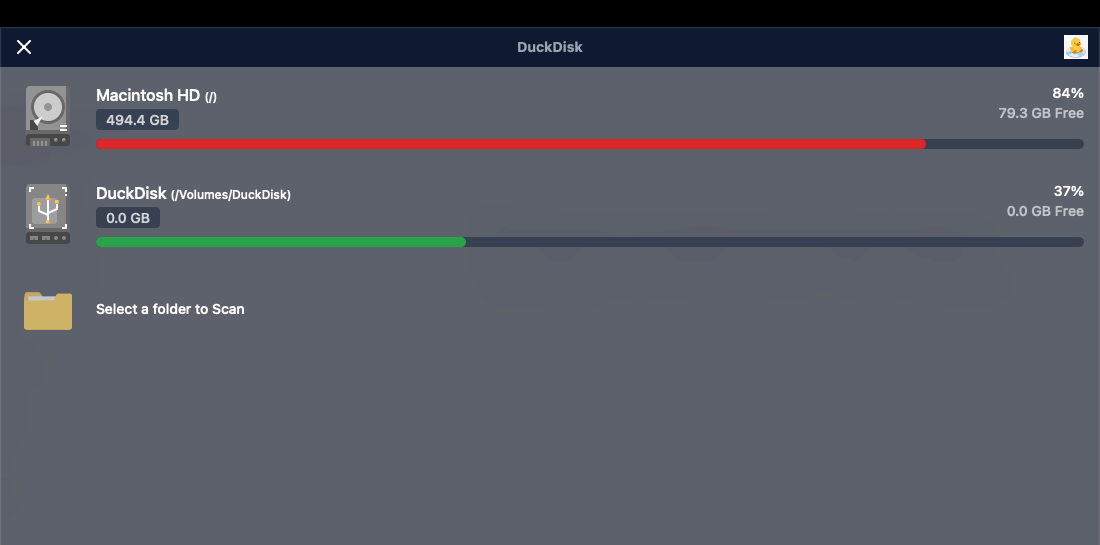
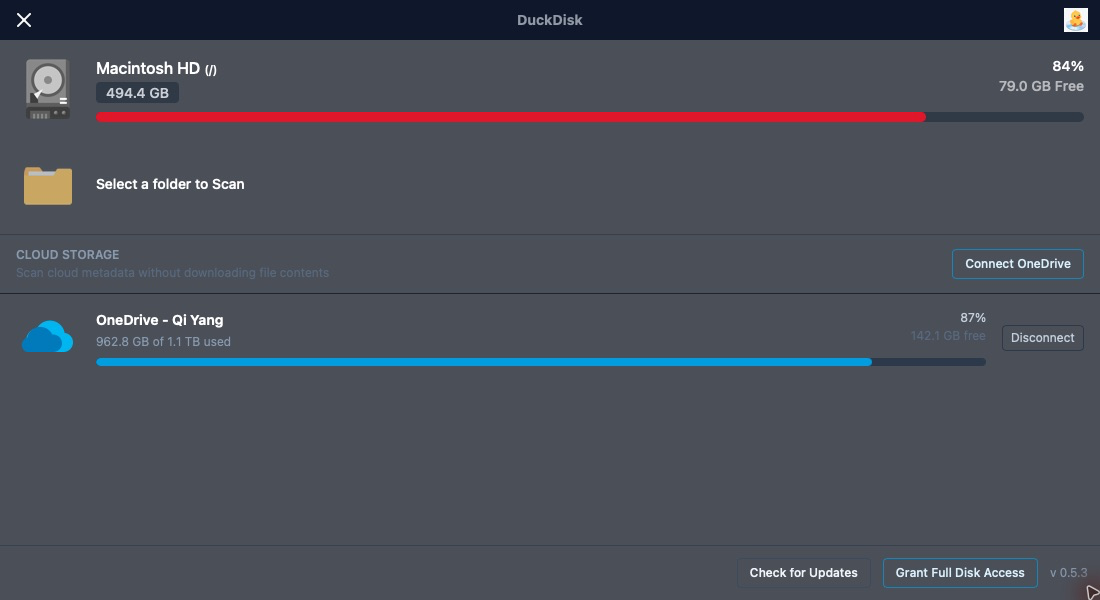
docs: refresh v0.5.3 screenshots

diff --git a/docs/index.html b/docs/index.html
@@ -415,12 +415,12 @@
             <img
               src="screenshots/disk-list.png"
               width="1100"
-              height="545"
-              alt="DuckDisk start screen showing available disks and Full Disk Access button"
+              height="600"
+              alt="DuckDisk start screen showing local disks, connected OneDrive storage, update checking, and Full Disk Access"
             >
             <figcaption class="screen-caption">
-              <strong>Disk list</strong>
-              <span>Select a volume or grant Full Disk Access for full scans.</span>
+              <strong>Local and cloud storage</strong>
+              <span>Scan a local volume or connect OneDrive without downloading cloud files.</span>
             </figcaption>
           </figure>
           <figure class="screen">
@@ -428,11 +428,11 @@
               src="screenshots/scan-progress.png"
               width="1100"
               height="600"
-              alt="DuckDisk scan progress screen with file and gigabyte counters"
+              alt="DuckDisk scan progress with file, size, percentage, and permission issue counters"
             >
             <figcaption class="screen-caption">
               <strong>Scan progress</strong>
-              <span>Track scanned files and size while DuckDisk walks the filesystem.</span>
+              <span>Track files, size, completion, and permission issues while DuckDisk scans.</span>
             </figcaption>
           </figure>
         </div>

diff --git a/README.md b/README.md
@@ -7,17 +7,19 @@
 ![arch](https://img.shields.io/badge/arch-arm64-lightgrey)
 ![stack](https://img.shields.io/badge/stack-Tauri%20%7C%20Rust%20%7C%20React-orange)
 
-**DuckDisk** is a macOS disk usage analyzer inspired by **WizTree-style** workflows. It scans disks and folders, shows where space is going in dense tables, and lets you quickly reveal or delete large files from one place.
+**DuckDisk** is a macOS disk and cloud storage analyzer inspired by **WizTree-style** workflows. It scans disks, folders, and OneDrive metadata, shows where space is going in dense tables, and lets you quickly reveal or remove large items from one place.
 
 The app is built with Tauri, Rust, React, and the `pdu` scanner.
 
 Website: https://qiyang77.github.io/duckdisk/
 
+> **New in v0.5.3: OneDrive analysis.** Connect your Microsoft account to inspect cloud storage without downloading file contents, refresh results using incremental changes, and move selected cloud files or folders to the OneDrive Recycle Bin.
+
 ## Screenshots
 
-### Disk List
+### Local and Cloud Storage
 
-![DuckDisk disk list](docs/screenshots/disk-list.png)
+![DuckDisk local disks and connected OneDrive storage](docs/screenshots/disk-list.png)
 
 ### Scan Progress
 
@@ -29,10 +31,11 @@ Website: https://qiyang77.github.io/duckdisk/
 
 ## Features
 
+- **OneDrive cloud analysis** using file metadata only, without downloading file contents.
+- **Fast incremental cloud refreshes** using Microsoft Graph delta updates and a local metadata cache.
+- **OneDrive cleanup** that moves selected files and folders to the Recycle Bin.
 - **Dense tree view** with folder/file counts, sizes, allocated size, and parent percentage.
-- **OneDrive cloud scan** using file metadata only, without downloading file contents.
-- Fast repeat OneDrive scans using Microsoft Graph delta updates.
-- **Drag-to-delete** function.
+- **Drag-to-delete** cleanup for local and OneDrive scan results.
 - File type summary with extension totals and percentages.
 - Finder integration for revealing files and folders.
 
